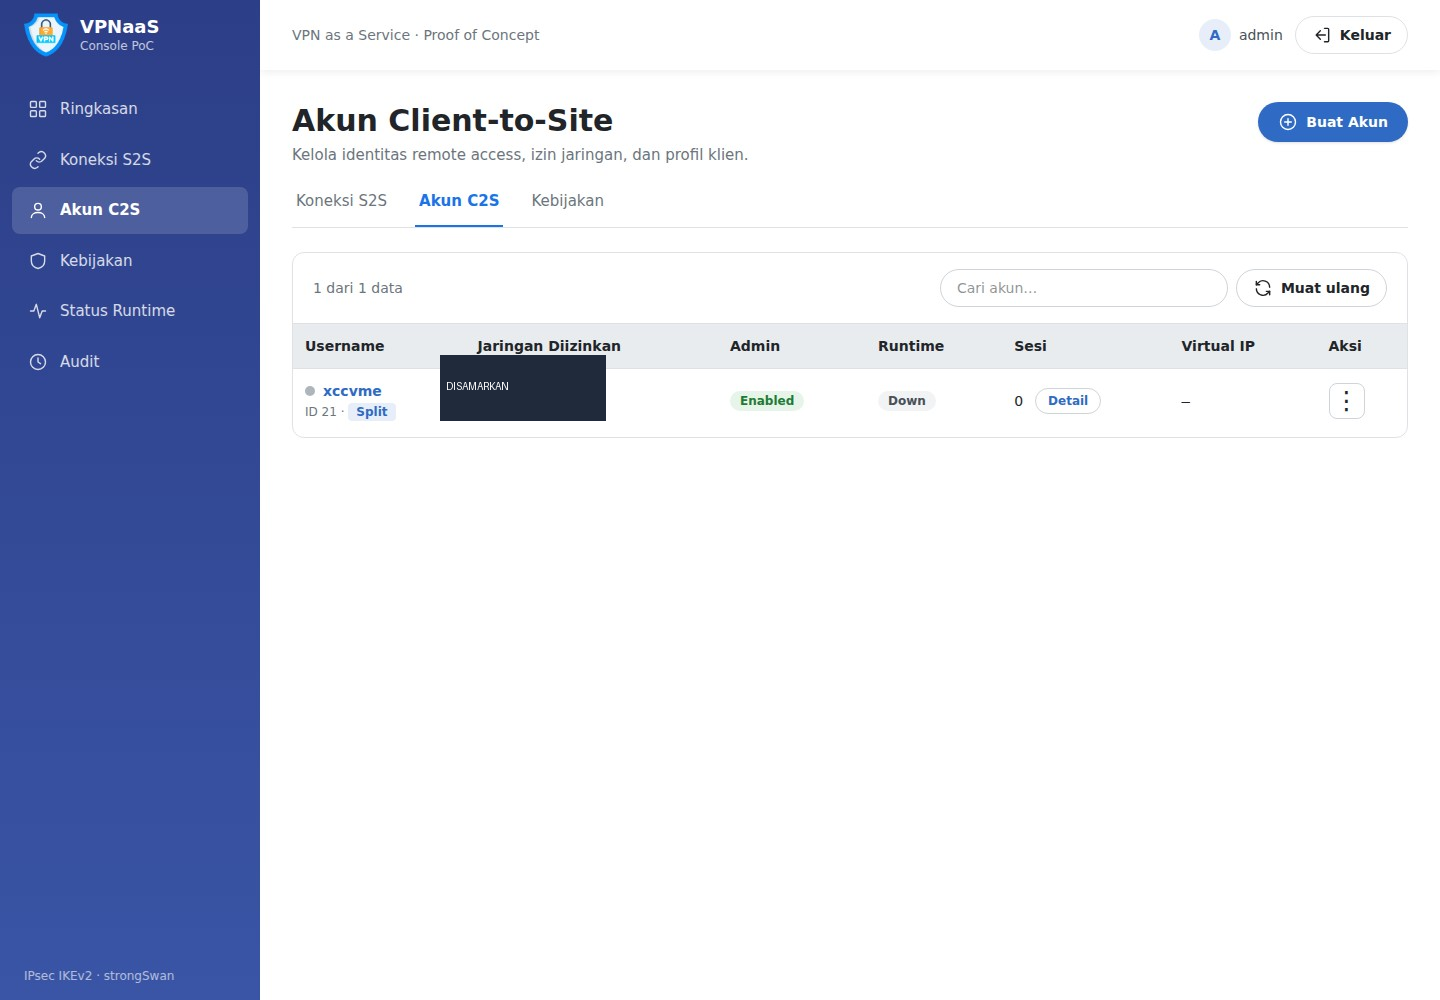
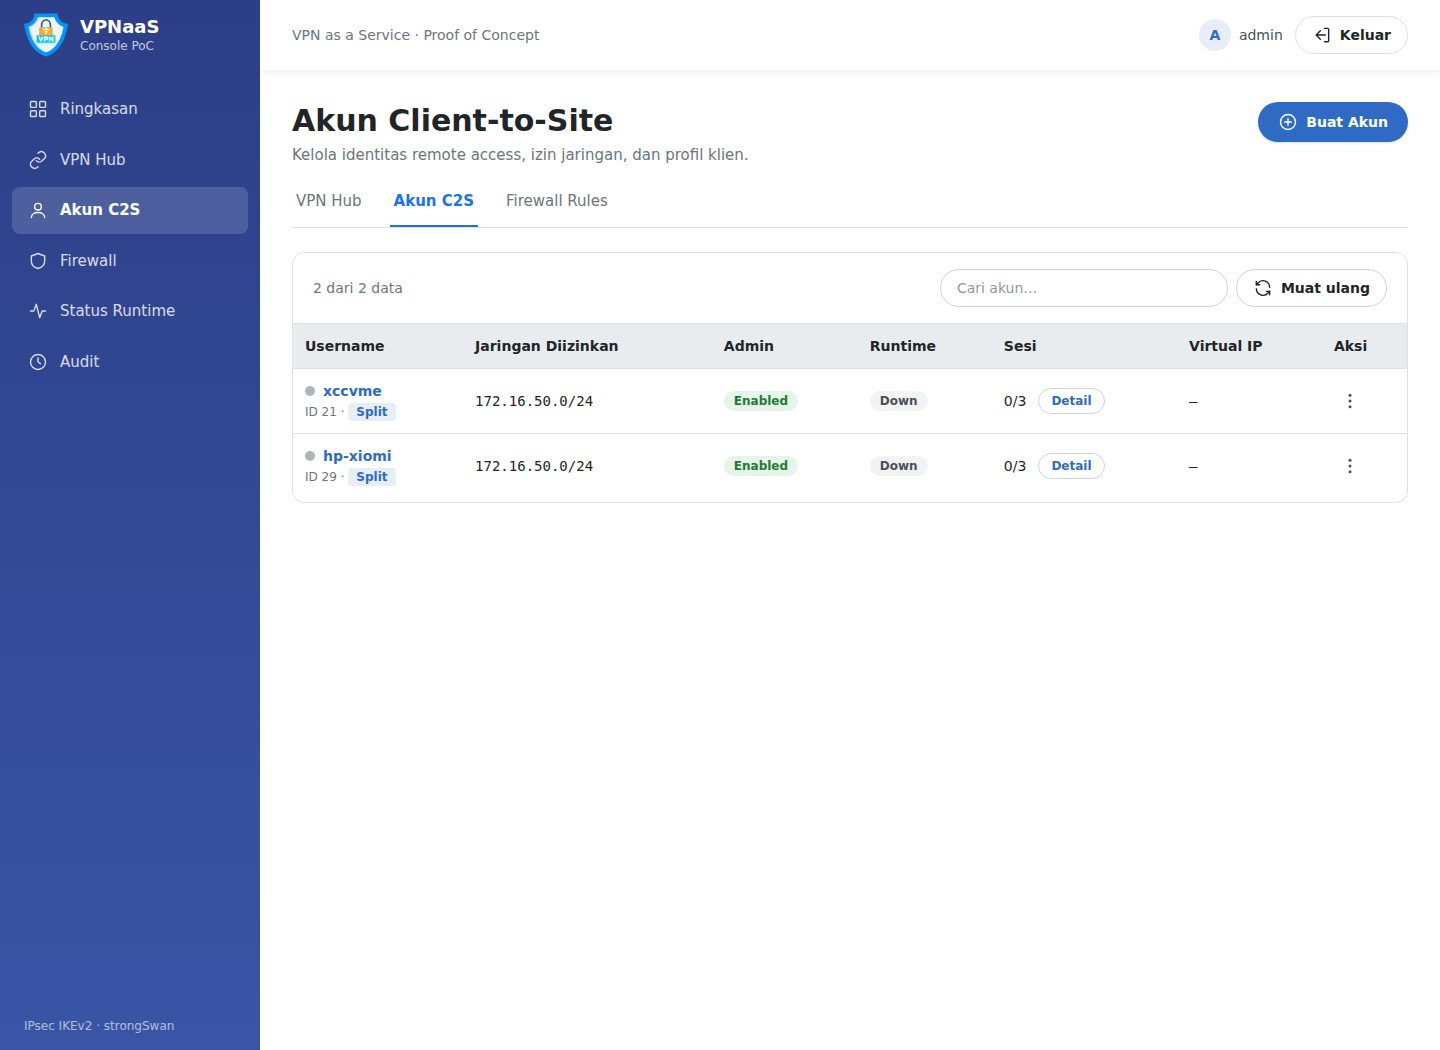
Refresh README screenshots from live VPN Hub and C2S UI

diff --git a/README.md b/README.md
@@ -210,16 +210,16 @@ Endpoint backend yang diproxy UI (allowlist ketat): `GET /api/connections/{id}/s
 
 ## Tampilan aplikasi
 
-Tangkapan layar aplikasi nyata; bilah alamat browser tidak disertakan dan nilai subnet akun ditutup dengan label **DISAMARKAN** untuk publikasi. Status dan jumlah sesi tidak diubah. Bukan bukti pengujian koneksi Windows.
+Tangkapan layar langsung dari aplikasi yang berjalan, bukan mockup. IP publik ditutup dengan label **IP PUBLIK DISAMARKAN** untuk publikasi; subnet privat tetap ditampilkan. Status, jumlah sesi, dan penghitung trafik tidak diubah. Bukan bukti pengujian koneksi Windows.
 
-### Login
+### VPN Hub — status Site-A dan Site-B
 
-![Halaman login](dokumentasi/images/login.png)
+![VPN Hub dengan status masing-masing site](dokumentasi/images/vpn-hub.png)
 
-### Daftar akun
+### Ubah VPN Hub — konfigurasi Site-A dan Site-B
 
-![Daftar akun C2S](dokumentasi/images/akun.png)
+![Form konfigurasi kedua site, subnet LAN, dan NAT](dokumentasi/images/ubah-vpn-hub.png)
 
-### Ubah akun
+### Daftar akun C2S
 
-![Modal ubah akun](dokumentasi/images/ubah-akun.png)
+![Daftar akun C2S dengan status dan batas sesi](dokumentasi/images/akun.png)
